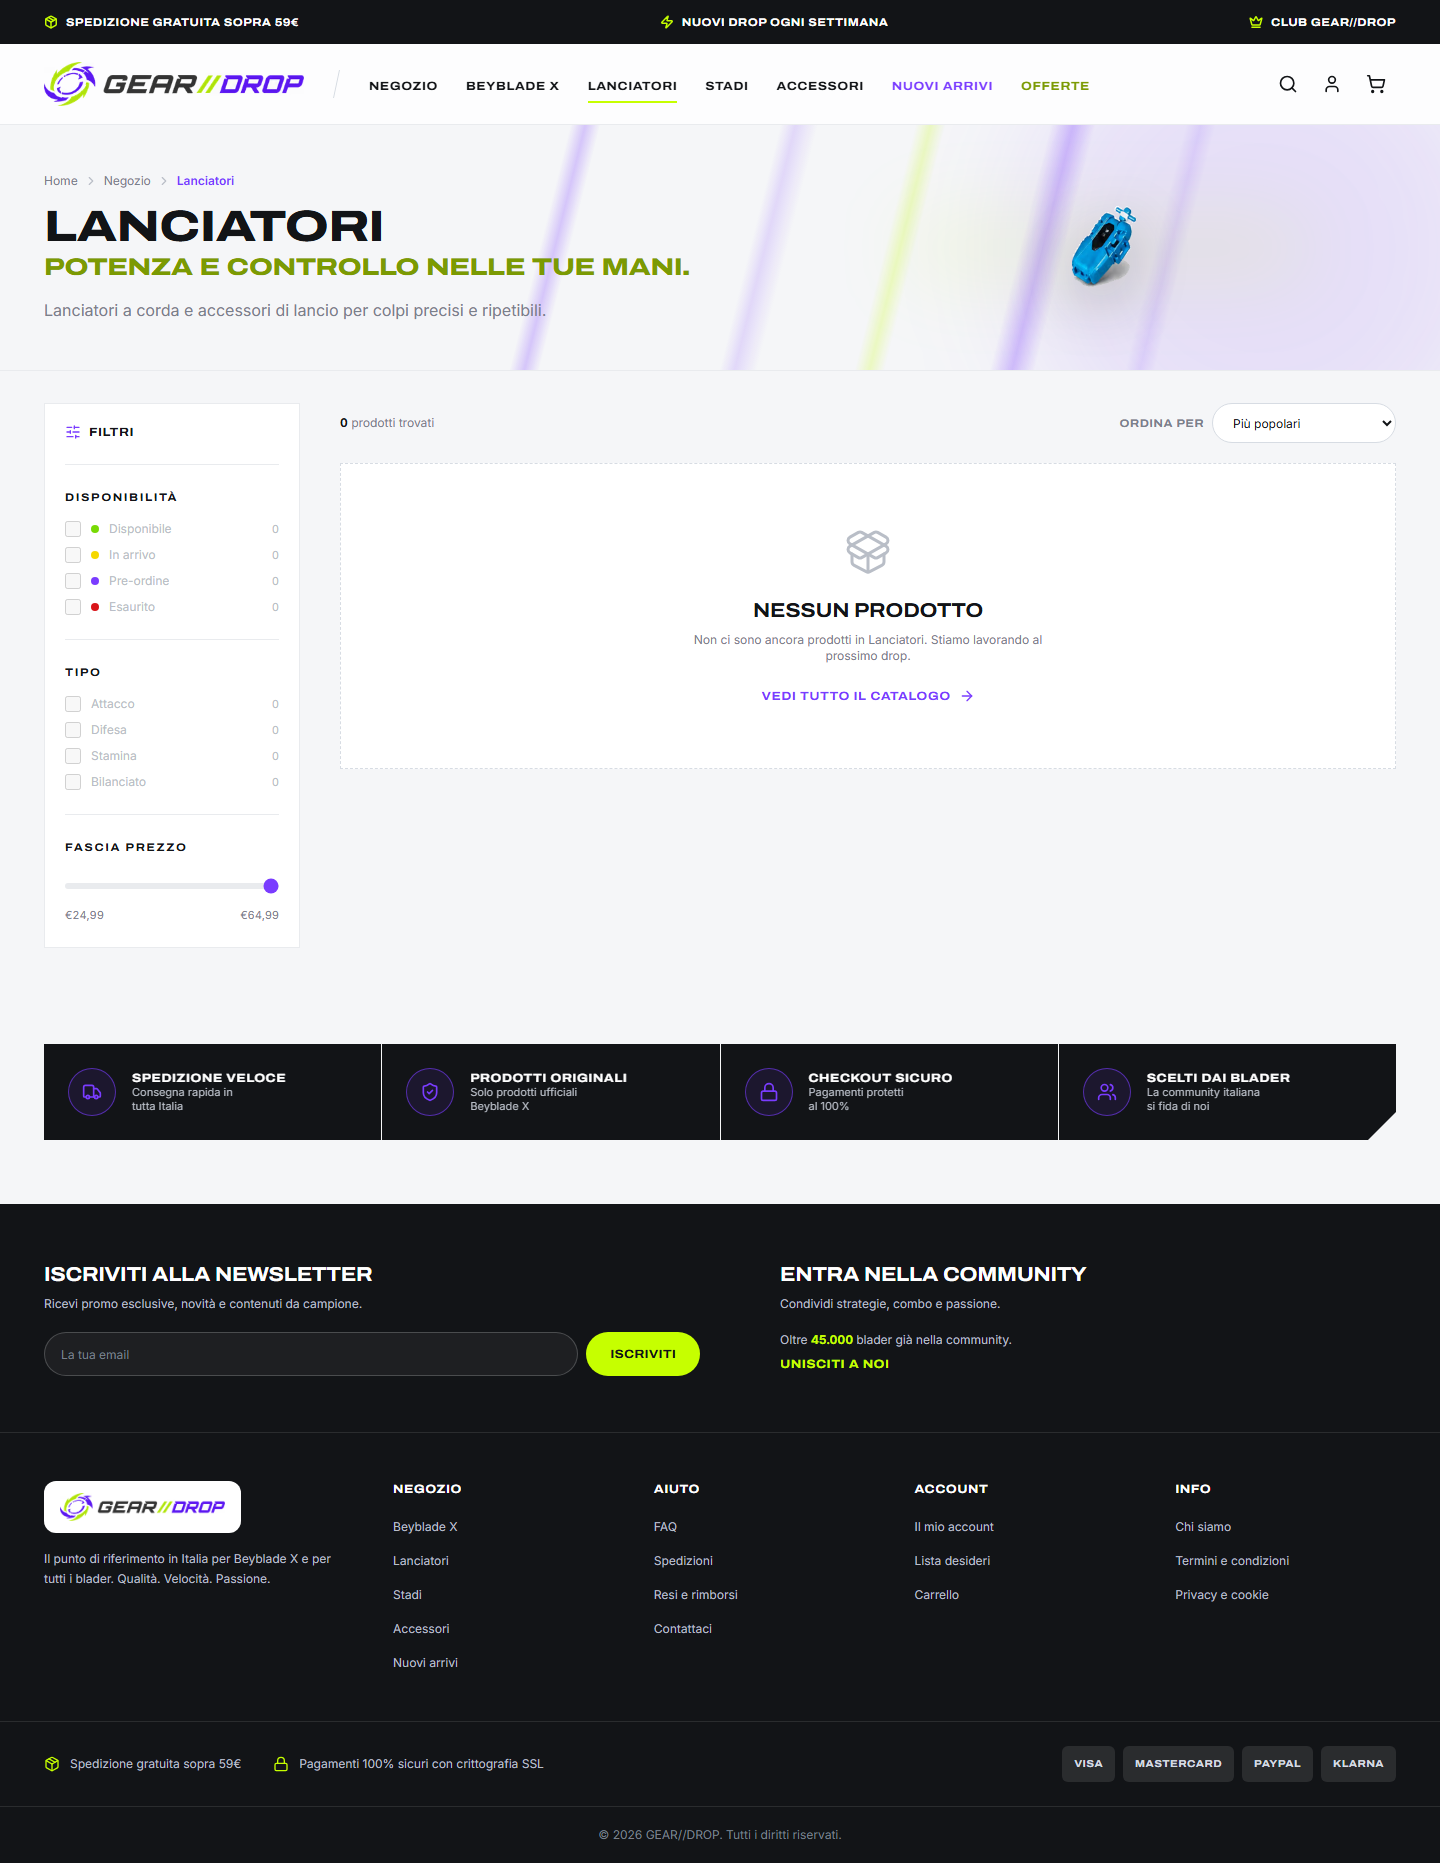
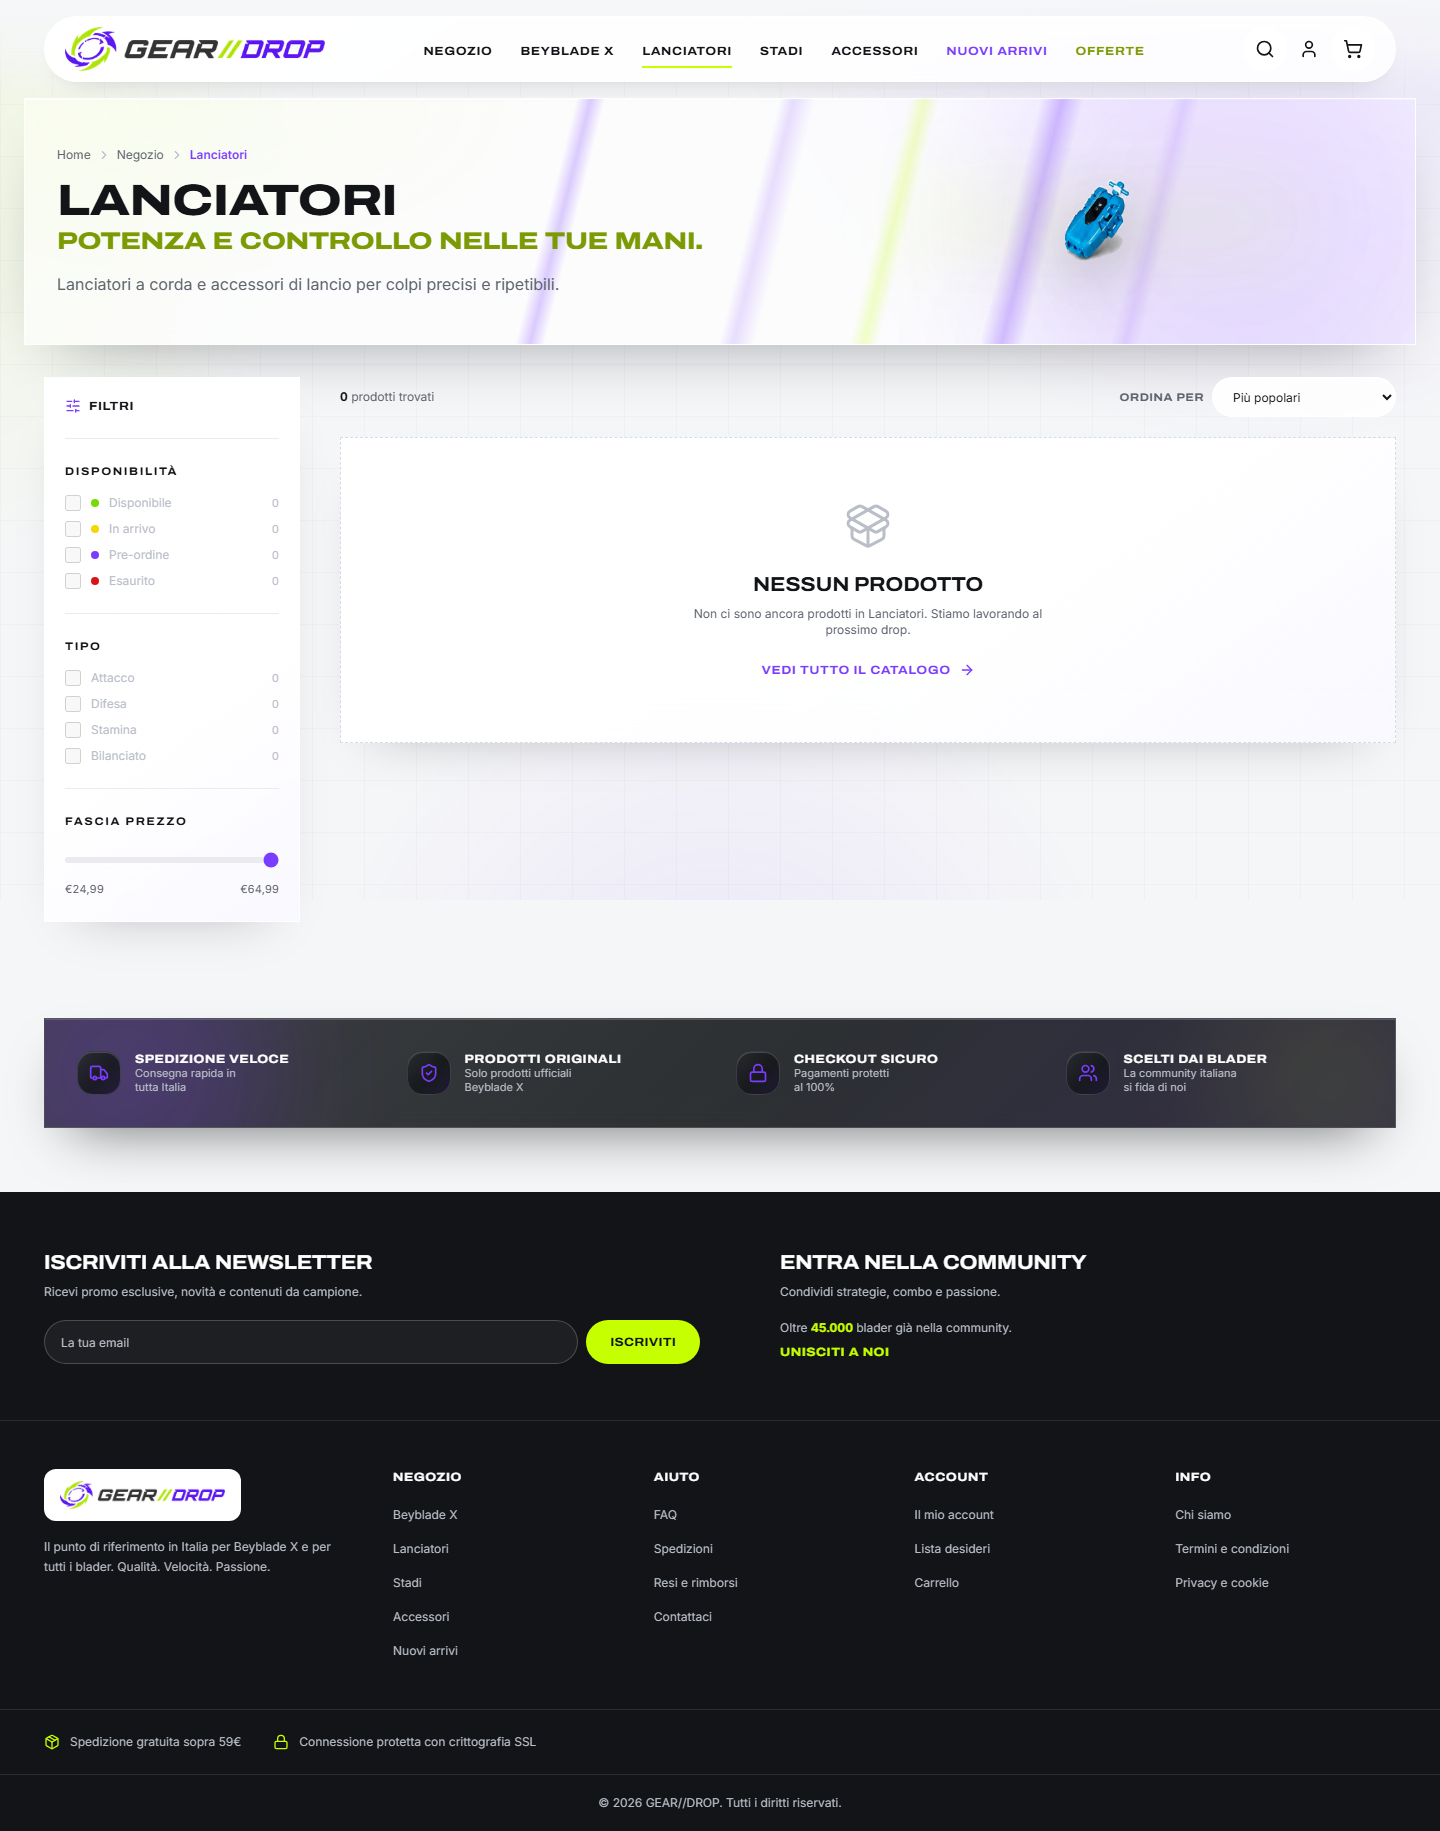
test: refresh storefront visual coverage
pnpm shots could not run at all: playwright.config.ts ignores
screenshots.spec.ts (the capture writes into docs/screenshots and must never
join the assertion suite), so the script matched no tests. It now has its own
config that inherits the base one, including the desktop/mobile project names
the spec writes its folders from.

The capture also opts out of the intro, the same way shop.spec.ts and
responsive.spec.ts already do — otherwise the overlay covers the hero and the
shot documents nothing. intro.spec.ts still covers the intro itself.

Screenshots regenerated from this worktree. The committed set predated the
intro gate and still showed the old "PayPal, Carte, Klarna" trust copy; these
show the current storefront on the official backend, mock provider.

diff --git a/playwright.shots.config.ts b/playwright.shots.config.ts
@@ -1,0 +1,19 @@
+import { defineConfig } from "@playwright/test";
+import base from "./playwright.config";
+
+/**
+ * The visual capture pass. It lives in its own config because playwright.config.ts
+ * deliberately ignores screenshots.spec.ts — the capture writes files into
+ * docs/screenshots and must never run as part of the assertion suite (or in CI).
+ *
+ * Project names are inherited from the base config on purpose: the spec writes to
+ * docs/screenshots/<project name>, so "desktop" and "mobile" are the committed folders.
+ */
+export default defineConfig({
+  ...base,
+  testMatch: ["**/screenshots.spec.ts"],
+  testIgnore: [],
+  fullyParallel: false,
+  workers: 1,
+  reporter: [["list"]],
+});

diff --git a/tests/e2e/screenshots.spec.ts b/tests/e2e/screenshots.spec.ts
@@ -6,6 +6,13 @@ import { mkdir } from "node:fs/promises";
  * so the build can be compared against the mockups by eye. Run with `pnpm shots`.
  */
 
+// The intro plays once per visitor and covers the hero; a shot of it hides the page the
+// capture exists to document. Same opt-out the other e2e specs use. intro.spec.ts still
+// covers the intro itself.
+test.beforeEach(async ({ page }) => {
+  await page.addInitScript(() => window.localStorage.setItem("geardrop_intro_seen_v1", "true"));
+});
+
 const SHOTS: readonly { name: string; path: string }[] = [
   { name: "home", path: "/" },
   { name: "catalogo", path: "/negozio" },

diff --git a/docs/superpowers/specs/2026-07-17-liquid-glass-coherence-design.md b/docs/superpowers/specs/2026-07-17-liquid-glass-coherence-design.md
@@ -1,0 +1,69 @@
+# GEAR//DROP Liquid Glass Coherence
+
+## Goal
+
+Make liquid glass the consistent material language of the entire storefront while preserving the fast, clean and elite character of GEAR//DROP. The hero remains the visual reference; other surfaces inherit its material properties without becoming uniformly transparent or decorative.
+
+## Visual principles
+
+- Coherence means a shared material system, not identical opacity everywhere.
+- Glass is restrained: fine white rims, controlled blur, subtle internal highlights and diffuse shadows.
+- Violet and lime remain accents. They may tint reflections and active states, but never become large decorative glows.
+- Hierarchy comes from opacity, elevation and scale. Functional surfaces remain more opaque than promotional surfaces.
+- Motion is limited to small elevation and highlight changes on hover and respects reduced-motion preferences.
+
+## Surface system
+
+Create four reusable glass tiers in the global design layer:
+
+1. **Display glass** — the most translucent tier, used by the hero and large promotional fields.
+2. **Card glass** — slightly more opaque, used by category, product, competitive, account and informational cards.
+3. **Panel glass** — the most legible light tier, used by checkout, cart, filters, forms and product-detail panels.
+4. **Dark glass** — used on the trust band and dark/footer-adjacent surfaces.
+
+All tiers share the same rim, saturation, shadow logic and corner vocabulary. Compact controls receive a small glass treatment derived from the same tokens.
+
+## Hero
+
+- Increase the right-side energy artwork by roughly 30–35% on desktop.
+- Let the artwork occupy more of the right column and approach the card edge without clipping its meaningful energy trails.
+- Rebalance the desktop grid so the larger art does not compress the headline or CTA group.
+- Keep mobile contained and readable; scale up modestly there rather than forcing desktop overflow.
+- Preserve the supplied artwork without filters that wash out its colors.
+
+## Site application
+
+- Home: category tiles, product cards, competitive cards and trust surfaces use the shared tiers.
+- Catalog and PDP: filters, product gallery, detail panels, product cards and compact controls use the same material vocabulary.
+- Cart, checkout and account: use panel glass for readability, with selected and status states remaining semantically distinct.
+- Navigation: header, mobile menu, bottom navigation and sticky purchase bar use compact glass where translucency is safe.
+- Footer: remains dark and authoritative; only nested surfaces and separators adopt dark-glass cues so the footer retains visual weight.
+- Inputs, badges and destructive/status feedback remain materially compatible but keep their semantic colors and sufficient contrast.
+
+## Interaction and accessibility
+
+- Hover raises eligible cards by no more than 4px and introduces a restrained violet reflection.
+- Focus states remain explicit and are never replaced by glass highlights.
+- Text-bearing surfaces maintain sufficient opacity and contrast over the ambient background.
+- Backdrop-filter fallbacks remain readable because each tier has a real translucent background color.
+- Reduced-motion mode removes lift and animated sheen while retaining static depth.
+
+## Responsive behavior
+
+- Desktop emphasizes hero scale and layered depth.
+- Tablet preserves the two-column hero until the existing breakpoint becomes cramped.
+- Mobile stacks content, keeps artwork inside the card and reduces blur/shadow cost where needed.
+- No horizontal overflow is introduced by oversized artwork or specular pseudo-elements.
+
+## Verification
+
+- Compare the live home page at desktop and mobile widths.
+- Spot-check catalog, product detail, cart, checkout and account surfaces for material consistency.
+- Verify no clipping, horizontal overflow, unreadable text or hidden focus indicators.
+- Run lint, type checking, unit tests and a production build.
+
+## Out of scope
+
+- Reworking information architecture, copy, commerce logic or product imagery.
+- Adding ornamental animations, heavy glow effects or a new color palette.
+- Making every element translucent regardless of its functional role.
